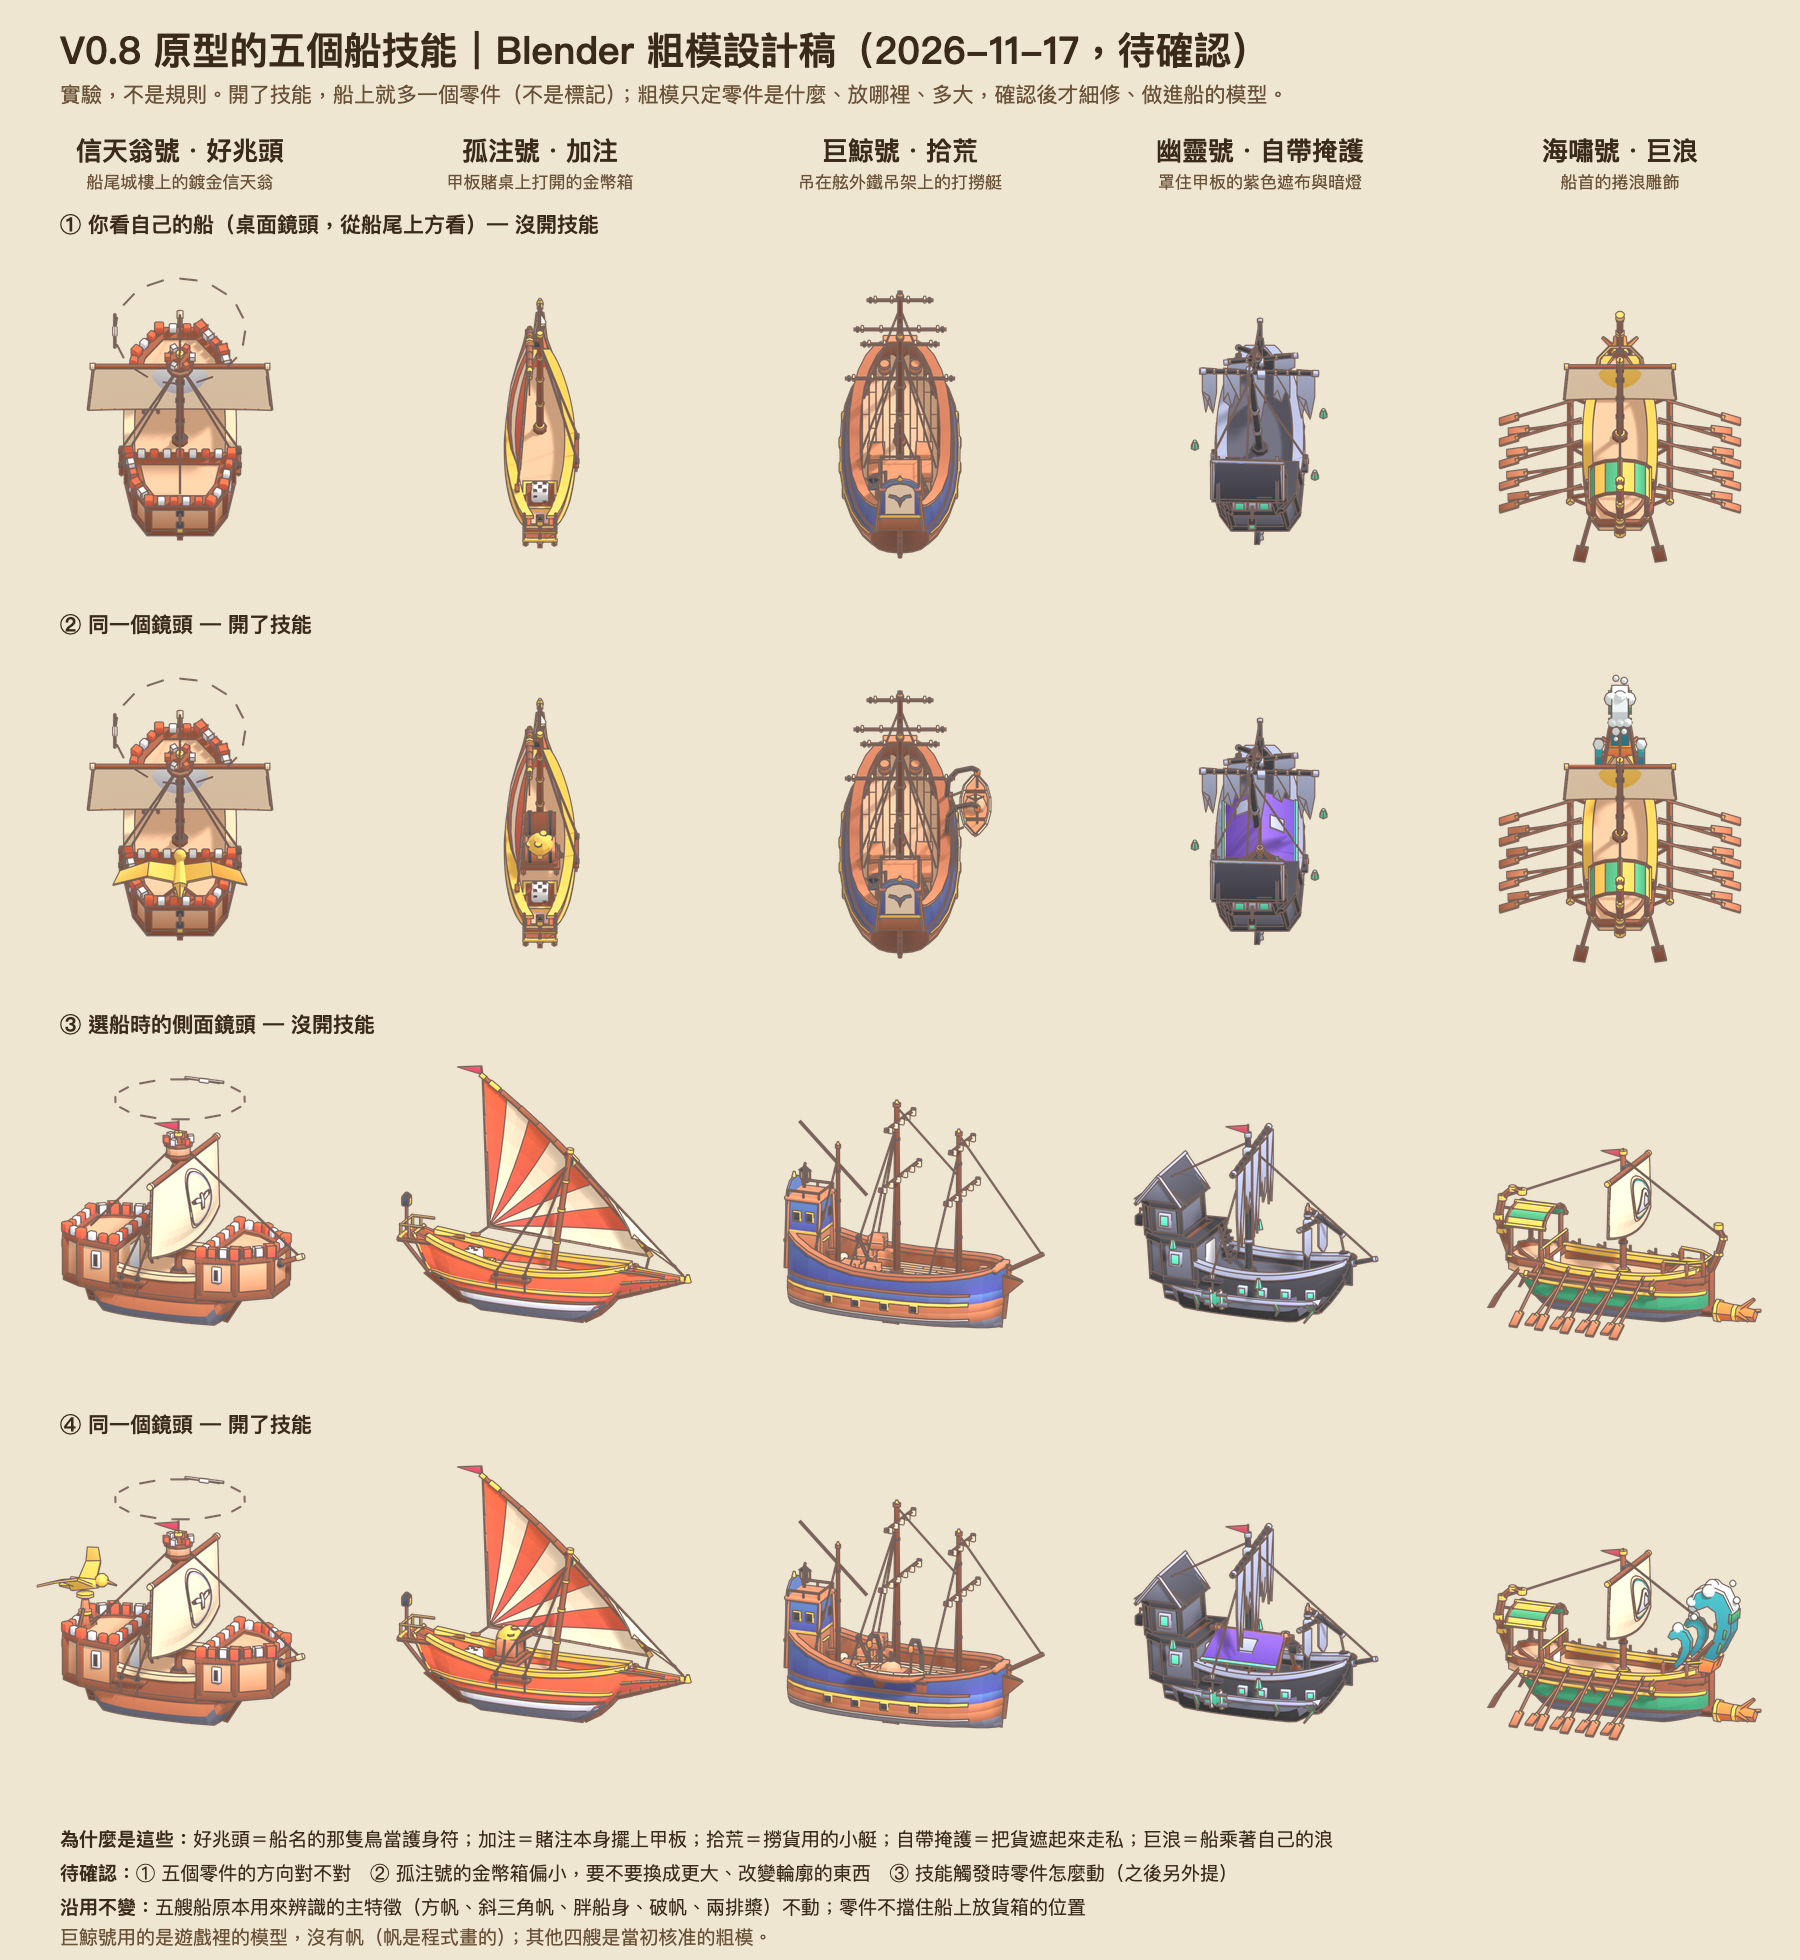
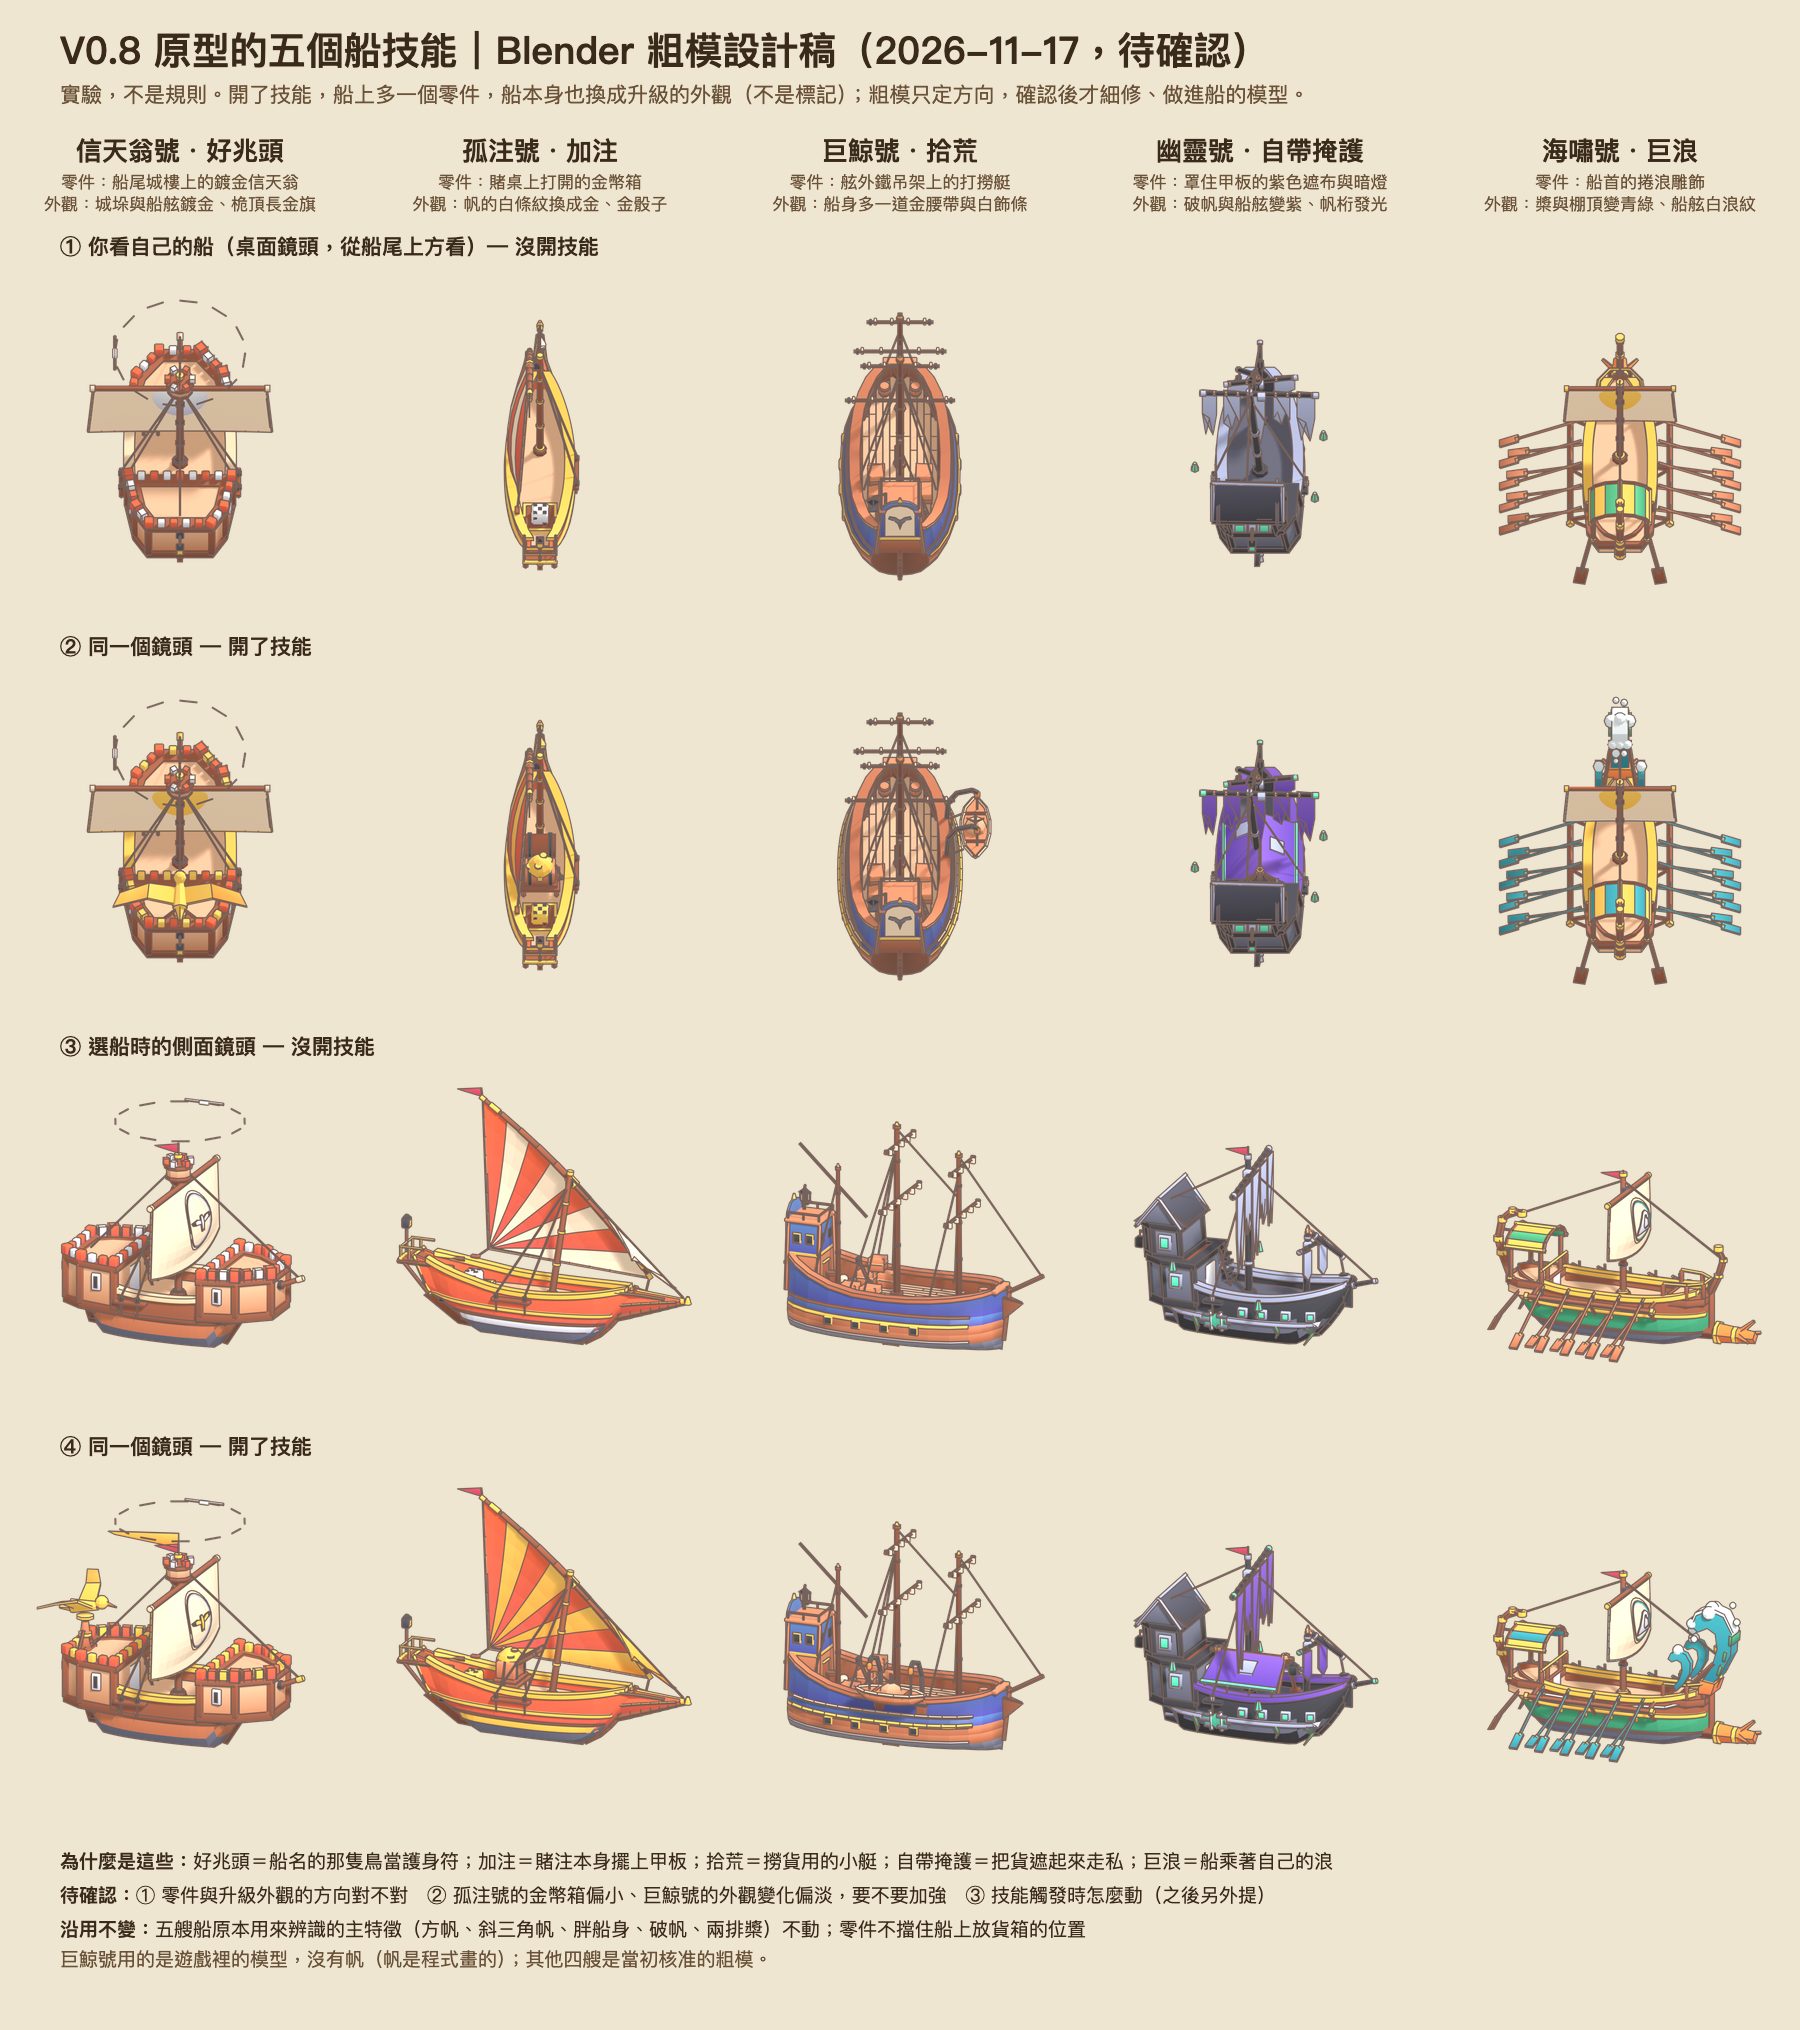
docs: give each ship an upgraded livery with its skill part in the V0.8 skills design sheet
The user asked that an opened skill also change the ship's own look, so it feels upgraded: gilded battlements, rails
and a long gold streamer (albatross), a red and gold sail with a gold die (gamble), a gold belt and a pale strake
(whale), purple rags and rails with glowing yard bands (ghost), sea-green oars and canopy with a white wave band
(tsunami). Still waiting for approval; nothing is modelled into the ships yet.

diff --git a/scripts/blender/blockout-skills.py b/scripts/blender/blockout-skills.py
@@ -230,10 +230,56 @@ def breaker_skill():
         beam(f"skill-brace{s}", (s * 0.5, y0 - 0.1, zf - 0.7), (s * 0.28, y0 + 0.9, zf + 0.25), 0.1, "woodDark", sides=4)
 
 
+if os.environ.get("LIST_PARTS"):
+    import collections
+    seen = collections.Counter((re.sub(r"[-.]?[-\d.]+$", "", ob.name), mat) for ob, mat, _ in PARTS)
+    print("PARTS", SHIP, sorted(seen.items()))
+# The upgraded livery: with the skill open the ship itself looks richer, not only one part more. Each entry repaints
+# the parts whose name starts with the prefix (and whose swatch is the one named, when given) in a new swatch.
+LIVERY = {
+    # Gilded battlements and rails, a gold hem and emblem on the sail.
+    "standard": [("aftcastle-merlon", "marble", "gold"), ("forecastle-merlon", "marble", "gold"), ("cap-rail", None, "gold"), ("sail-hem", None, "gold"), ("emblem-ring", None, "gold"), ("emblem-bird", None, "gold"), ("bowsprit-cap", None, "gold")],
+    # The sail's white stripes turn gold: red and gold, the colours of a high stake.
+    "gambler": [("lateen", "canvas", "roofGold"), ("jib", "canvas", "roofGold"), ("boot-top", None, "gold"), ("die", "marble", "gold")],
+    # Purple rails and yard bands, and the rags take the shroud's purple at their feet.
+    "hidden": [("cap-rail", None, "heather"), ("main-yard-band", None, "ghostGlow"), ("fore-yard-band", None, "ghostGlow"), ("rag-main", None, "heather"), ("rag-fore", None, "heather"), ("bowsprit-cap", None, "ghostGlow")],
+    # Sea-green canopy and oar blades with white tips, a white-crested emblem.
+    "breaker": [("canopy", "leaf", "wave"), ("oar-", "wood", "wave"), ("emblem-disc", None, "wave"), ("sail-hem", None, "foam")],
+}
+
+
+def livery_trims():
+    """Trims added with the livery (built as skill parts, so they show only with the skill open)."""
+    if SHIP == "freighter":
+        # The model is one mesh: its livery is laid over it. A second gold belt along the bulge and gilded mastheads.
+        def half(z):
+            k = min(1.0, z / 3.35) if z >= 0 else min(1.0, -z / 3.25)
+            return 1.75 * max(0.0, 1 - k ** 2.4) ** (1 / 2.4)
+
+        zs = [-2.7 + 5.6 * i / 14 for i in range(15)]
+        for side in (-1, 1):
+            for i in range(len(zs) - 1):
+                beam(f"skill-belt{side}{i}", (side * (half(zs[i]) * 0.985 + 0.03), 0.98, zs[i]), (side * (half(zs[i + 1]) * 0.985 + 0.03), 0.98, zs[i + 1]), 0.13, "gold", sides=4)
+                beam(f"skill-belt-b{side}{i}", (side * (half(zs[i]) * 0.93 + 0.03), 1.24, zs[i]), (side * (half(zs[i + 1]) * 0.93 + 0.03), 1.24, zs[i + 1]), 0.09, "plaster", sides=4)
+    if SHIP == "standard":
+        # A long gold-edged streamer at the masthead in place of the short pennant.
+        y = design.MAST_TOP + 0.5
+        mesh_from("skill-streamer", [(0, y + 0.22, design.MAST_Z), (0, y - 0.22, design.MAST_Z), (0, y - 0.05, design.MAST_Z - 2.0), (0, y + 0.02, design.MAST_Z - 2.2), (0.03, y + 0.22, design.MAST_Z), (0.03, y - 0.22, design.MAST_Z), (0.03, y - 0.05, design.MAST_Z - 2.0), (0.03, y + 0.02, design.MAST_Z - 2.2)],
+                  [[0, 1, 2, 3], [7, 6, 5, 4], [0, 4, 5, 1], [1, 5, 6, 2], [2, 6, 7, 3], [3, 7, 4, 0]], "roofGold", convex=True)
+    if SHIP == "breaker":
+        # A white wave band along each side above the oars.
+        for side in (-1, 1):
+            for i in range(8):
+                z0 = -2.4 + i * 0.62
+                x0, x1 = design.hull_rail_x(z0), design.hull_rail_x(z0 + 0.62)
+                beam(f"skill-band{side}{i}", (side * (x0 + 0.03), design.sheer(z0) - 0.16 - 0.06 * (i % 2), z0), (side * (x1 + 0.03), design.sheer(z0 + 0.62) - 0.16 - 0.06 * ((i + 1) % 2), z0 + 0.62), 0.1, "foam", sides=4)
+
+
 SKILLS = {"standard": standard_skill, "gambler": gambler_skill, "freighter": freighter_skill, "hidden": hidden_skill, "breaker": breaker_skill}
 first_skill = len(PARTS)
 if SHIP in SKILLS:
     SKILLS[SHIP]()
+    livery_trims()
 skill_obs = [ob for ob, _, _ in PARTS[first_skill:]]
 colour_parts(band=band)
 setup_render()
@@ -250,6 +296,25 @@ if SHIP == "freighter":
             ob.data.materials.append(m)
 
 
+def paint(ob, swatch):
+    """Repaint a plain (not banded) part top to bottom with a swatch, as colour_parts does."""
+    me = ob.data
+    attr = me.color_attributes["Col"]
+    ys = [v.co.z for v in me.vertices]
+    lo, hi = min(ys), max(ys)
+    top, bot = hex_rgb(kit.SWATCHES[swatch][0]), hex_rgb(kit.SWATCHES[swatch][1])
+    for li, loop in enumerate(me.loops):
+        t = (me.vertices[loop.vertex_index].co.z - lo) / (hi - lo) if hi > lo else 1.0
+        attr.data[li].color = [b + (a - b) * t for a, b in zip(top, bot)] + [1.0]
+
+
+def apply_livery(on):
+    for ob, mat, _ in PARTS[:first_skill]:
+        for prefix, was, to in LIVERY.get(SHIP, []):
+            if ob.name.startswith(prefix) and (was is None or mat == was) and not ob.get("banded"):
+                paint(ob, to if on else mat)
+
+
 def orbit(name, azimuth, elevation, target, scale, res):
     a, e = math.radians(azimuth), math.radians(elevation)
     t = Vector(target)
@@ -262,6 +327,7 @@ os.makedirs(OUT, exist_ok=True)
 for state in ("off", "on"):
     for ob in skill_obs:
         ob.hide_render = state == "off"
+    apply_livery(state == "on")
     for name, (cam, (w, h)) in VIEWS.items():
         kit.SCENE.camera = cam
         kit.SCENE.render.resolution_x, kit.SCENE.render.resolution_y = w, h

diff --git a/docs/proposals/2026-11-v08-presentation-plan.md b/docs/proposals/2026-11-v08-presentation-plan.md
@@ -70,7 +70,7 @@
 | 0. 畫面說真話 | 完成（2026-11-16）：船卡是掉箱表（含自己的建築、風暴潮、這回合的修正）；回合數不寫總數，最後一回合會標出；選島卡、島徽章、排行的自由港與燈塔島文字；左上角常駐暗潮晶片（兩個候選 → 揭曉後那一種，滑過看效果與擋得住的）。暗潮晶片的圖示是暫用的，第 4 步再做。 |
 | 1. 出航結算（件數制） | 完成（2026-11-17）：結算拍先打開貨艙，掉的箱子一箱一箱被拋出船舷落水（水花、水面圈、落水處跳「−1」與貨的圖示），船旁的標籤把掉的箱子劃掉並寫「掉 N 箱」，掉完船才進港。資料只用引擎的公開事件（`ship-resolved.lost`）；掉的是哪幾箱是準的，演出的先後順序固定照軍火、香料、鐵礦、木材。預覽：`/v07.html?dev=beat3d&v08`。還沒做：掉箱的音效、孤注號與海嘯號倍率的演出、沉船時整船貨的演出沒變。 |
 | 2. 材料動作與建築 | 進行中（2026-11-17）：舊的四棟程式碼建築不沿用（使用者：不夠精緻，都是多邊體堆砌而成），三棟都在 Blender 重做。粗模設計稿 [`../art/facilities-concept.png`](../art/facilities-concept.png)（`scripts/blender/blockout-facilities.py`）方向使用者已確認（2026-11-17）：主要特徵朝島的後方（你看自己的島時看到的那一面），碼頭側、側面也各有東西；粗模細修中，下一步匯出 GLB 放上島。材料動作的操作還沒做。 |
-| 3. 船技能 | 進行中（2026-11-17）：五個零件的粗模設計稿 [`../art/skills-concept.png`](../art/skills-concept.png)（`scripts/blender/blockout-skills.py`）**待使用者確認**：信天翁號＝船尾城樓上的鍍金信天翁、孤注號＝賭桌上打開的金幣箱、巨鯨號＝舷外吊架上的打撈艇、幽靈號＝罩住甲板的紫色遮布與暗燈、海嘯號＝船首的捲浪雕飾。確認前不建模。加注的宣告與觸發演出還沒做。 |
+| 3. 船技能 | 進行中（2026-11-17）：五個零件的粗模設計稿 [`../art/skills-concept.png`](../art/skills-concept.png)（`scripts/blender/blockout-skills.py`）**待使用者確認**：信天翁號＝船尾城樓上的鍍金信天翁、孤注號＝賭桌上打開的金幣箱、巨鯨號＝舷外吊架上的打撈艇、幽靈號＝罩住甲板的紫色遮布與暗燈、海嘯號＝船首的捲浪雕飾。使用者要求（2026-11-17）：除了零件，船本身的外觀也要變，讓人感覺升級了；設計稿已加上每艘船的升級外觀（鍍金城垛與長金旗、紅金條紋帆、金腰帶、紫色破帆、青綠槳與白浪紋）。確認前不建模。加注的宣告與觸發演出還沒做。 |
 | 4 | 未開始 |
 
 已知還沒處理：規則書面板（`RulesPanel`）、貨物說明（`GoodIcon`）、通緝令文字還是讀正式規則；結算拍的骰值上限與角色加成兩處也寫死正式規則，但這兩處的數值原型沒改，結果相同。
